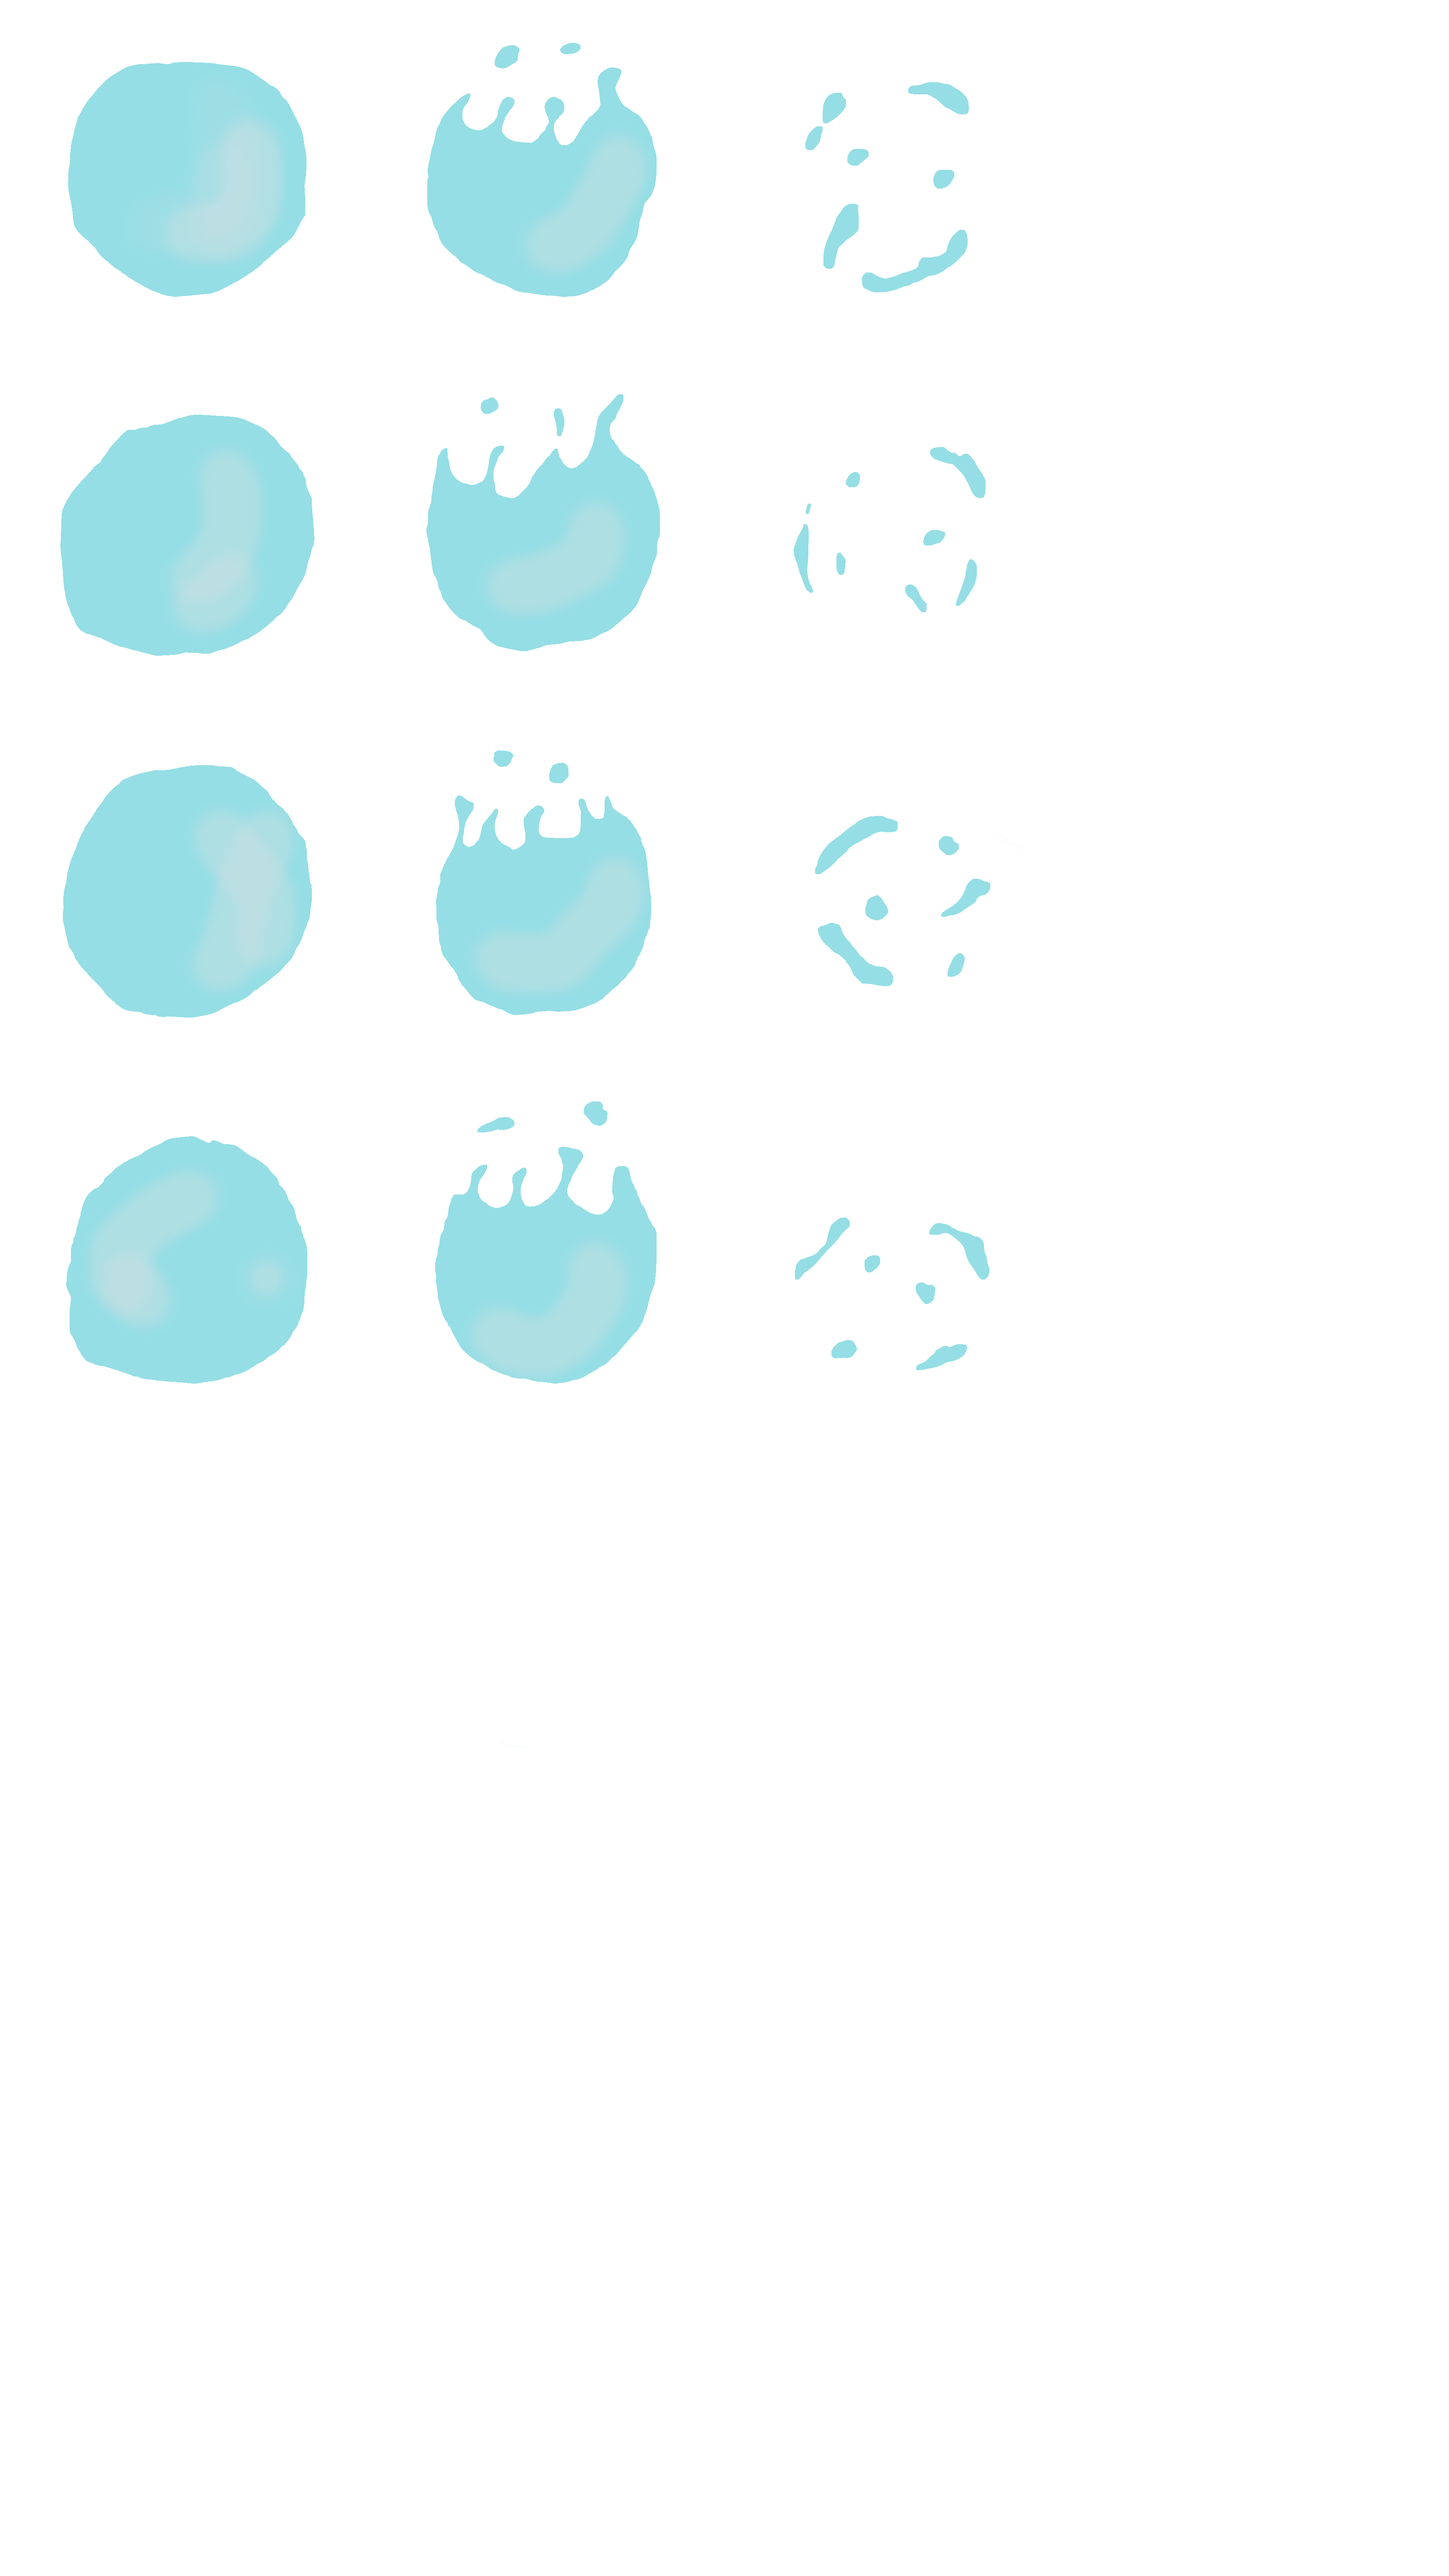
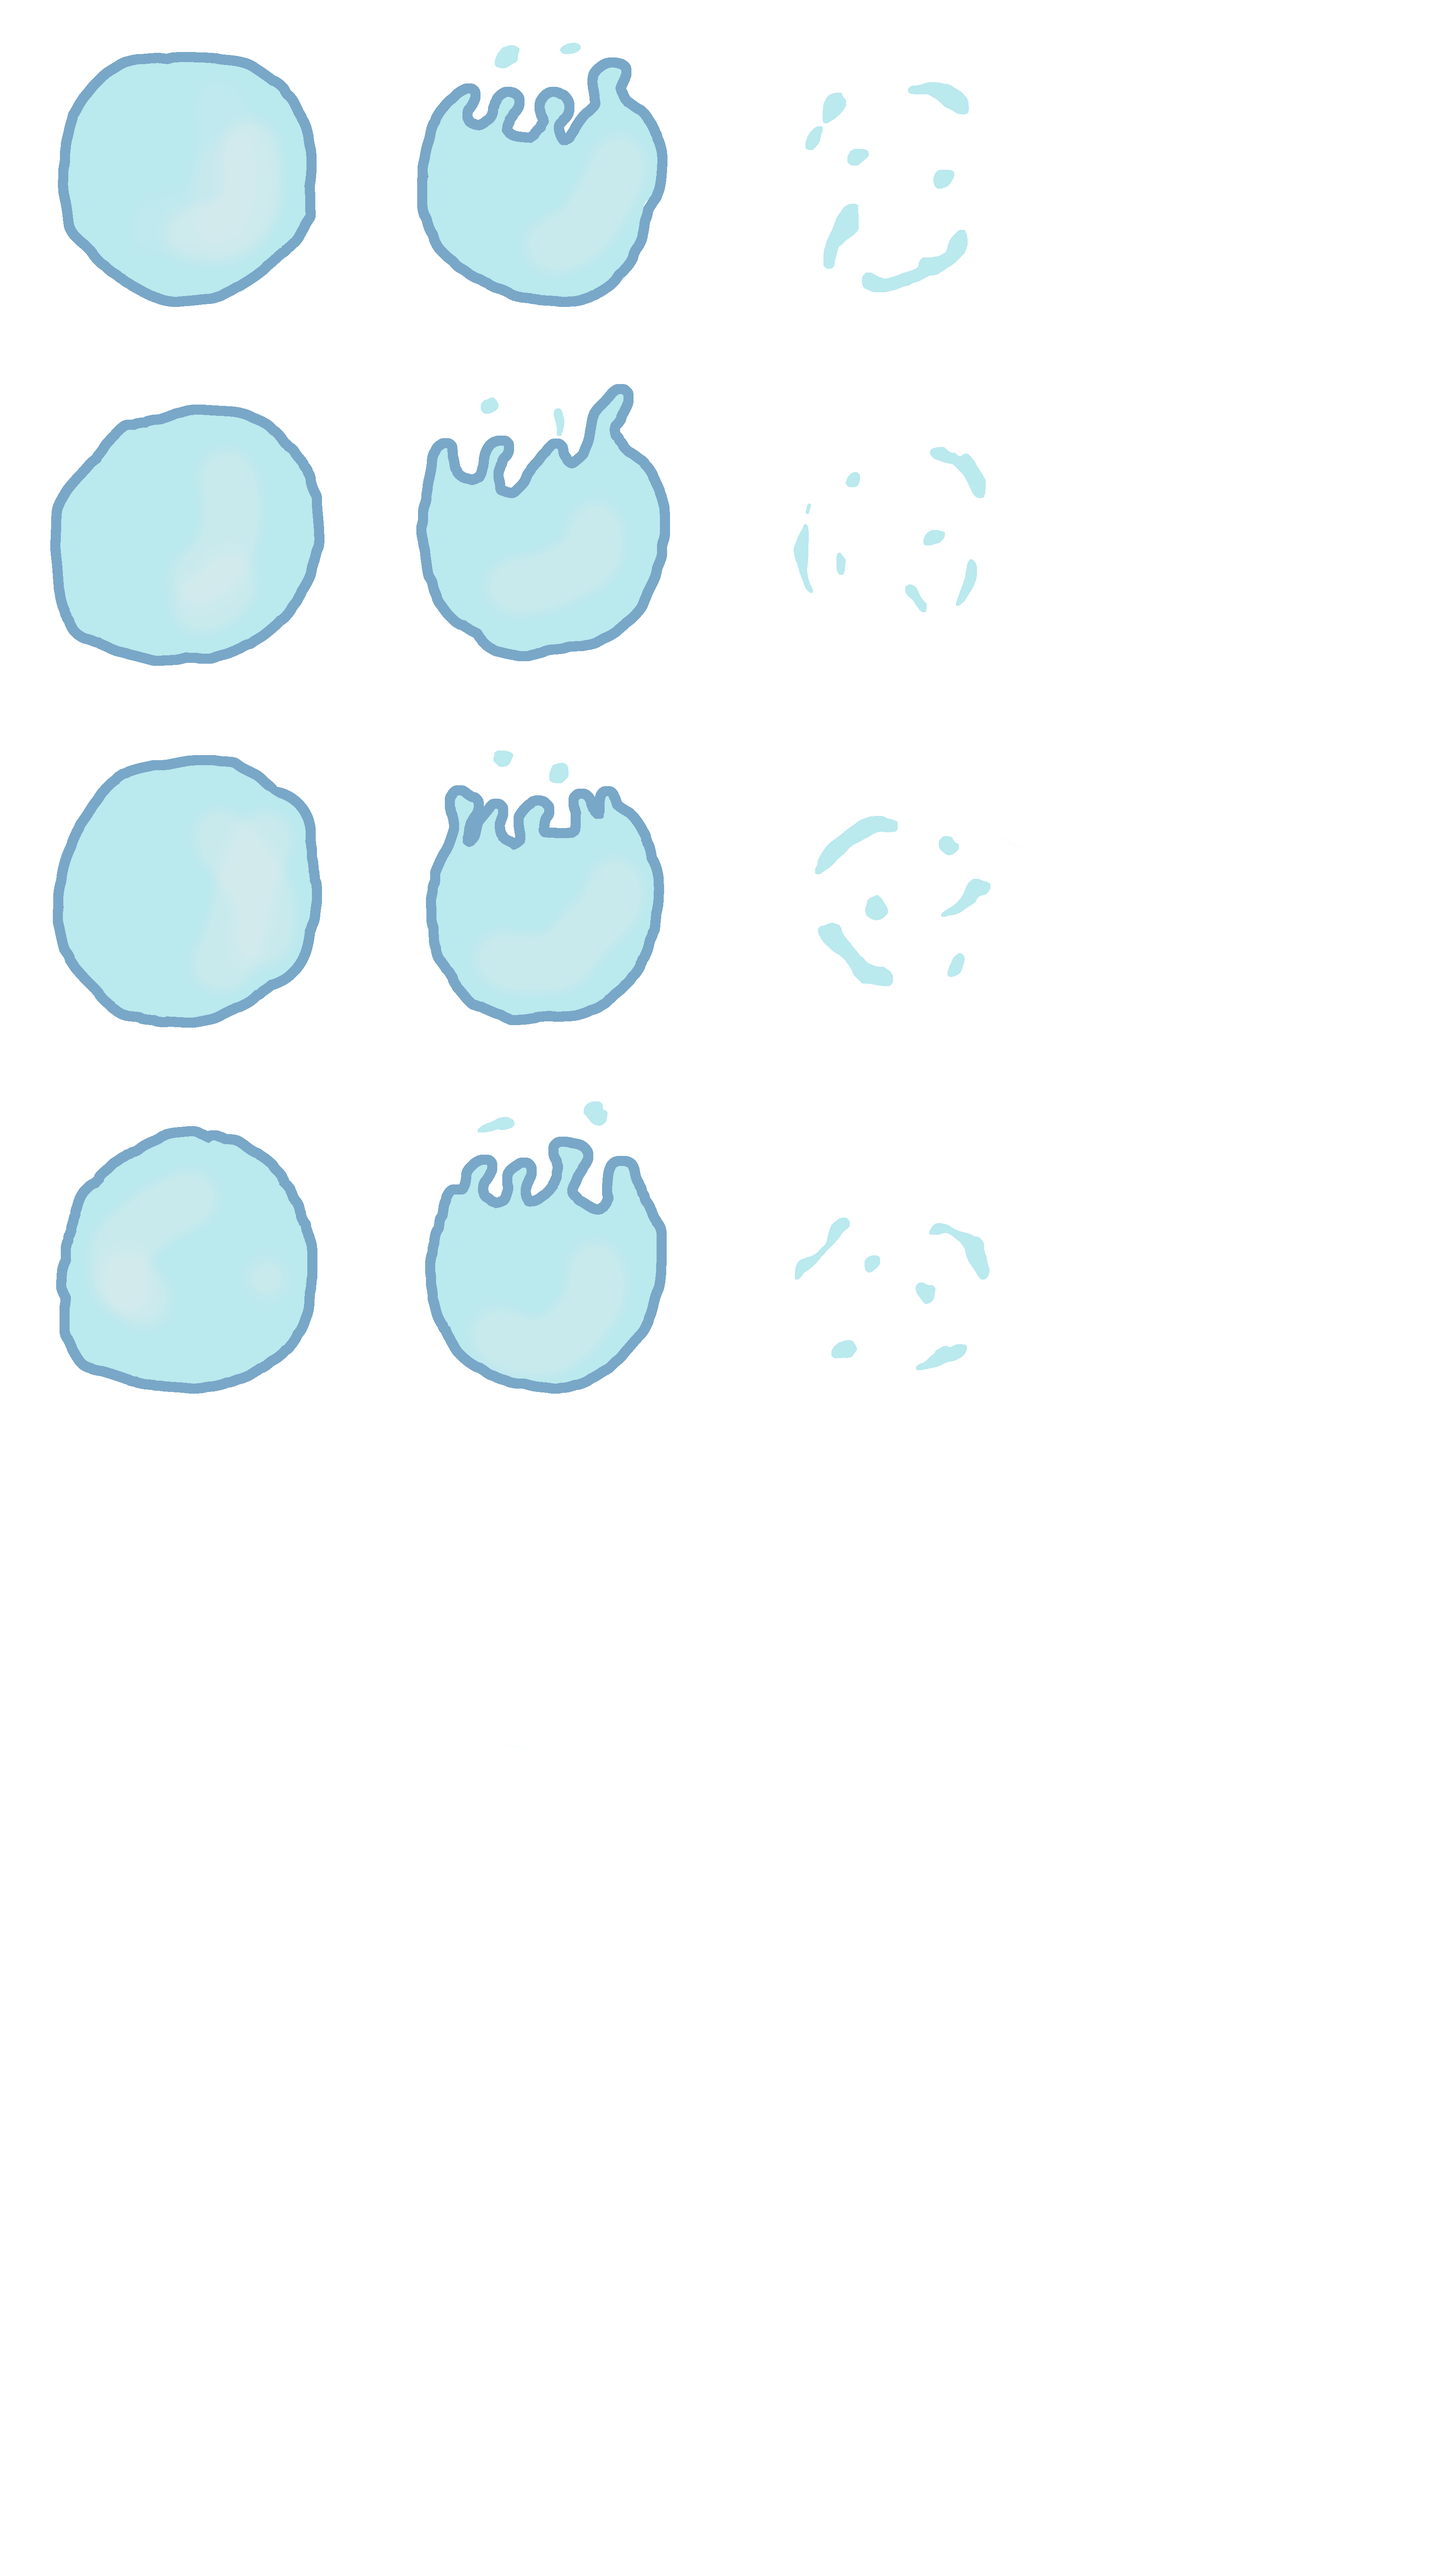
Bubbles

diff --git a/src/bullet.h b/src/bullet.h
@@ -5,13 +5,14 @@
 #include "selfregister.h"
 #include "assets.h"
 #include "animation.h"
+#include "oneshotanims.h"
 #include "window.h"
 #include "camera.h"
 #include "common_tilemapcharacter.h"
 
 extern float mainClock;
 
-const float gasScale = 4.f;
+const float gasScale = 0.11f;
 const float minRotationSpeed = 60.f;
 const float maxRotationSpeed = 130.f;
 const float gasSize = 6.f;
@@ -22,12 +23,22 @@ struct Bullet : CircleEntity, SelfRegister<Bullet>
 	bool hit[2] = { false ,false };
 	int note;
 	bool active = false;
-	//Animation anim;
+	float rotation = Rand::rollf(0,360);
+	float rotationSpeed = Rand::rollf(-90, +90);
+	GPU_Rect tex;
 
 	Bullet(int player, int note)
 		: CircleEntity(pos, gasSize* gasScale)
+		, tex(AnimLib::BUBBLE1[0].rect)
 		, note(note)
 	{
+
+		switch (Rand::roll(4)) {
+		case 0: tex = AnimLib::BUBBLE2[0].rect; break;
+		case 1: tex = AnimLib::BUBBLE3[0].rect; break;
+		case 2: tex = AnimLib::BUBBLE4[0].rect; break;
+		}
+
 		pos.y = Window::GAME_HEIGHT;
 		pos.x = 718;
 		while (note--) {
@@ -38,28 +49,32 @@ struct Bullet : CircleEntity, SelfRegister<Bullet>
 	void Update(float dt)
 	{
 		pos.y -= 150 * dt;
-
-		/*
-		anim.Update(dt);
-		if (anim.IsComplete()) {
-			alive = false;
-		}
-		*/
+		rotation += rotationSpeed * dt;
 	}
 
 	void Explode() {
-	
+		switch (Rand::roll(4)) {
+		case 0:new OneShotAnim(Assets::bubbleTexture, pos, AnimLib::BUBBLE1, gasScale); break;
+		case 1:new OneShotAnim(Assets::bubbleTexture, pos, AnimLib::BUBBLE2, gasScale); break;
+		case 2:new OneShotAnim(Assets::bubbleTexture, pos, AnimLib::BUBBLE3, gasScale); break;
+		case 3:new OneShotAnim(Assets::bubbleTexture, pos, AnimLib::BUBBLE4, gasScale); break;
+		}
 	}
 
 	void Draw() const
 	{
-		//Assets::tintShader.Activate();
-		//Assets::tintShader.SetUniform("flashColor", 0.8f, 0.8f, 0.f, 0.3f);
-		GPU_Rect animRect = { 16 * 16,17 * 16,16, 16 };
-		Window::Draw(Assets::spritesheetTexture, pos)
-			.withOrigin(vec(animRect.w, animRect.h)/2)
-			.withRect(animRect)
+		if (active) {
+			Window::Draw(Assets::bubbleTexture, pos)
+				.withRect(tex)
+				.withColor(255, 255, 255)
+				.withOrigin(vec(tex.w, tex.h) / 2)
+				.withRotationDegs(rotation)
+				.withScale(gasScale*1.1);
+		}
+		Window::Draw(Assets::bubbleTexture, pos)
+			.withRect(tex)
+			.withOrigin(vec(tex.w, tex.h) / 2)
+			.withRotationDegs(rotation)
 			.withScale(gasScale);
-		//Shader::Deactivate();
 	}
 };

diff --git a/src/scene_main.cpp b/src/scene_main.cpp
@@ -10,6 +10,7 @@
 #include "collide.h"
 #include "debug.h"
 #include "rototext.h"
+#include "input.h"
 #include "tiled_tilemap.h"
 #include "tiled_objects_entities.h"
 
@@ -128,6 +129,7 @@ void SceneMain::ExitScene()
 {
 	Bullet::DeleteAll();
 	RotoText::DeleteAll();
+	OneShotAnim::DeleteAll();
 }
 
 void SceneMain::updateScore(int player) {
@@ -135,14 +137,21 @@ void SceneMain::updateScore(int player) {
 	comboText[player].SetString("Combo: x" + std::to_string(combo[player]));
 }
 
-void playerFloatingText(int player, std::string text) {
+void playerFloatingText(int player, std::string text, bool bad = false) {
 	vec pos = playerTextPos;
 	if (player == 1) {
 		pos.x = Window::GAME_WIDTH - pos.x;
 	}
 	auto roto = new RotoText(pos + Rand::PosInsideCircle(rotoArea), Assets::funk_30, Assets::funk_30_outline);
 	roto->ShowMessage(text);
+	if (bad) {	
+		roto->SetFillColor(250, 50, 50);
+	}
+	else {
+		roto->SetFillColor(50, 255, 50);
+	}
 }
+
 
 void SceneMain::Update(float dt)
 {
@@ -203,7 +212,10 @@ void SceneMain::Update(float dt)
 	if (Input::IsJustPressed(1, GameKeys::NOTE_3)) { Note(1, 2); }
 	if (Input::IsJustPressed(0, GameKeys::NOTE_4)) { Note(0, 3); }
 	if (Input::IsJustPressed(1, GameKeys::NOTE_4)) { Note(1, 3); }
-
+	for (OneShotAnim* b : OneShotAnim::GetAll()) {
+		b->Update(dt);
+	}
+	OneShotAnim::DeleteNotAlive();
 	for (RotoText* b : RotoText::GetAll()) {
 		b->Update(dt);
 	}
@@ -213,14 +225,15 @@ void SceneMain::Update(float dt)
 		b->active = Collide(collider, b->Bounds());
 		if (b->Bounds().Bottom() < collider.Top()) {
 			b->alive = false;
+			b->Explode();
 			if (!b->hit[0]) {
 				combo[0] = 0;
-				playerFloatingText(0, "Miss");
+				playerFloatingText(0, "Miss", true);
 				updateScore(0);
 			}
 			if (!b->hit[1]) {
 				combo[1] = 0;
-				playerFloatingText(1, "Miss");
+				playerFloatingText(1, "Miss", true);
 				updateScore(1);
 			}
 		}
@@ -251,7 +264,7 @@ void SceneMain::Note(int player, int note) {
 	}
 	else {
 		combo[player] = 0;
-		playerFloatingText(player, "Oops!");
+		playerFloatingText(player, "Oops!", true);
 	}
 
 }
@@ -320,7 +333,9 @@ void SceneMain::Draw()
 		b->Draw();
 		b->Bounds().DebugDraw(255, 0, 0);
 	}
-
+	for (const OneShotAnim* b : OneShotAnim::GetAll()) {
+		b->Draw();
+	}
 	for (RotoText* b : RotoText::GetAll()) {
 		b->Draw(rotoScale);
 	}

diff --git a/src/anim_lib.h b/src/anim_lib.h
@@ -4,22 +4,28 @@
 
 namespace AnimLib {
 
-	constexpr float const gasFrameTime = 0.15f;
-	constexpr const AnimationFrame GAS[] = {
-		// Fade in
-		{ {22 * 16,17 * 16,16, 16},gasFrameTime / 2 },
-		{ {21 * 16,17 * 16,16, 16},gasFrameTime / 2 },
-		{ {19 * 16,17 * 16,16, 16},gasFrameTime / 2 },
-		// Stay
-		{ {16 * 16,17 * 16,16, 16},gasFrameTime },
-		{ {17 * 16,17 * 16,16, 16},gasFrameTime },
-		{ {18 * 16,17 * 16,16, 16},gasFrameTime },
-		{ {19 * 16,17 * 16,16, 16},gasFrameTime },
-		{ {20 * 16,17 * 16,16, 16},gasFrameTime },
-		// Fade out
-		{ {21 * 16,17 * 16,16, 16},gasFrameTime / 2 },
-		{ {22 * 16,17 * 16,16, 16},gasFrameTime / 2 },
-		{ {23 * 16,17 * 16,16, 16},gasFrameTime / 2 },
+	const float frameTime = 0.1;
+	const int grid = 856;
+	constexpr const AnimationFrame BUBBLE1[] = {
+		{ {grid * 0, grid * 0, grid, grid}, 0.f },
+		{ {grid * 1, grid * 0, grid, grid}, frameTime  },
+		{ {grid * 2, grid * 0, grid, grid}, frameTime  },
 	};
+	constexpr const AnimationFrame BUBBLE2[] = {
+		{ {grid * 0, grid * 1, grid, grid}, 0.f },
+		{ {grid * 1, grid * 1, grid, grid},frameTime  },
+		{ {grid * 2, grid * 1, grid, grid},frameTime  },
+	};
+	constexpr const AnimationFrame BUBBLE3[] = {
+		{ {grid * 0, grid * 2, grid, grid}, 0.f },
+		{ {grid * 1, grid * 2, grid, grid}, frameTime },
+		{ {grid * 2, grid * 2, grid, grid}, frameTime  },
+	};
+	constexpr const AnimationFrame BUBBLE4[] = {
+		{ {grid * 0, grid * 3, grid, grid}, 0.f },
+		{ {grid * 1, grid * 3, grid, grid}, frameTime },
+		{ {grid * 2, grid * 3, grid, grid}, frameTime  },
+	};
+
 
 }

diff --git a/src/assets.cpp b/src/assets.cpp
@@ -13,6 +13,7 @@ void Assets::LoadAll() {
     window = LoadImage("data/window.png");
 
     spritesheetTexture = LoadImage("data/spritesheet.png");
+    bubbleTexture = LoadImage("data/bubbles.png");
 
     fish1 = LoadImage("data/body_fish1.png");
     fish1mouth = LoadImage("data/mouth.png");
@@ -30,11 +31,6 @@ void Assets::LoadAll() {
     emojiConfused = LoadImage("data/emoji_confused.png");
     emojiLove = LoadImage("data/emoji_love.png");
     emojiNeutral = LoadImage("data/emoji_neutral.png");
-
-    bubble1 = LoadImage("data/emoji_surprised.png");
-    bubble2 = LoadImage("data/emoji_dead.png");
-    bubble3 = LoadImage("data/emoji_happy.png");
-    bubble4 = LoadImage("data/emoji_love.png");
 
     greenTick = LoadImage("data/tick.png");
     heart = LoadImage("data/heart.png");

diff --git a/src/assets.h b/src/assets.h
@@ -21,6 +21,7 @@ struct Assets
 	static inline GPU_Image* air;
 
 	static inline GPU_Image* spritesheetTexture;
+	static inline GPU_Image* bubbleTexture;
 
 	static inline GPU_Image* emojiSuprised;
 	static inline GPU_Image* emojiDead;
@@ -37,11 +38,6 @@ struct Assets
 	static inline GPU_Image* fish2mouth;
 	static inline GPU_Image* fish2mic;
 	static inline GPU_Image* fish2arm;
-
-	static inline GPU_Image* bubble1;
-	static inline GPU_Image* bubble2;
-	static inline GPU_Image* bubble3;
-	static inline GPU_Image* bubble4;
 
 	static inline GPU_Image* greenTick;
 	static inline GPU_Image* heart;

diff --git a/src/oneshotanims.h b/src/oneshotanims.h
@@ -27,6 +27,7 @@ struct OneShotAnim : SelfRegister<OneShotAnim>
 
 	void Update(float dt) {
 		anim.Update(dt);
+		pos.y -= 150 * dt;
 		if (anim.IsComplete()) {
 			alive = false;
 		}
